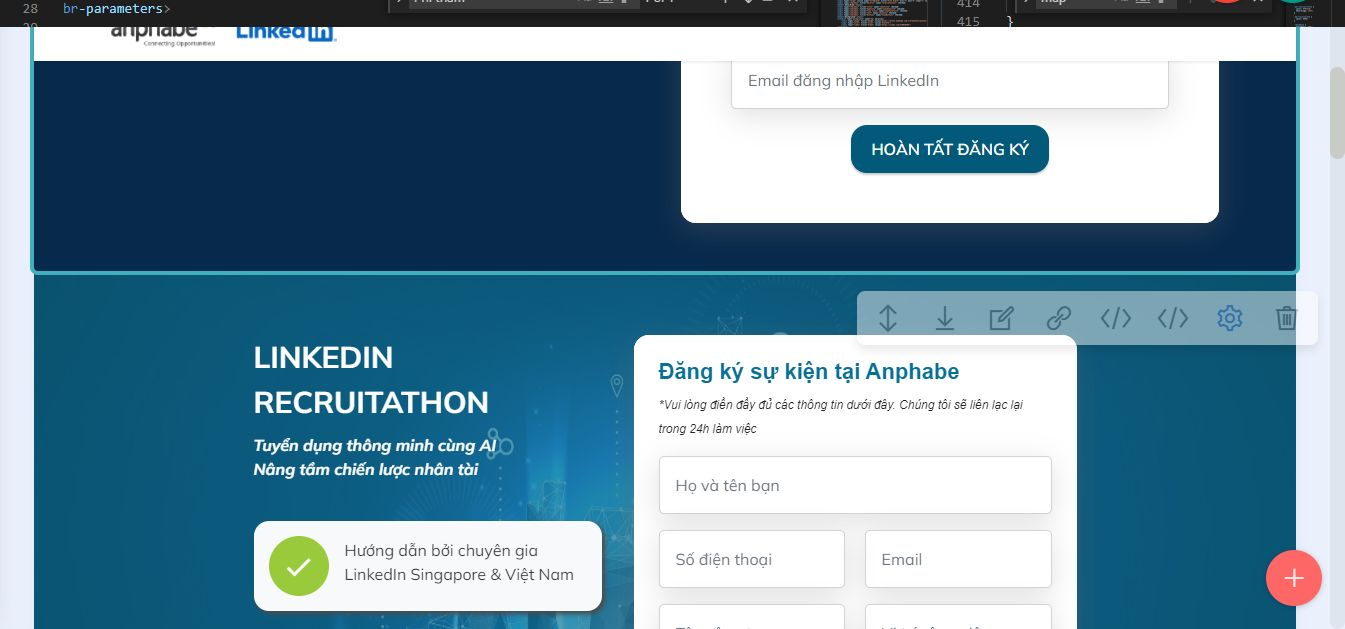
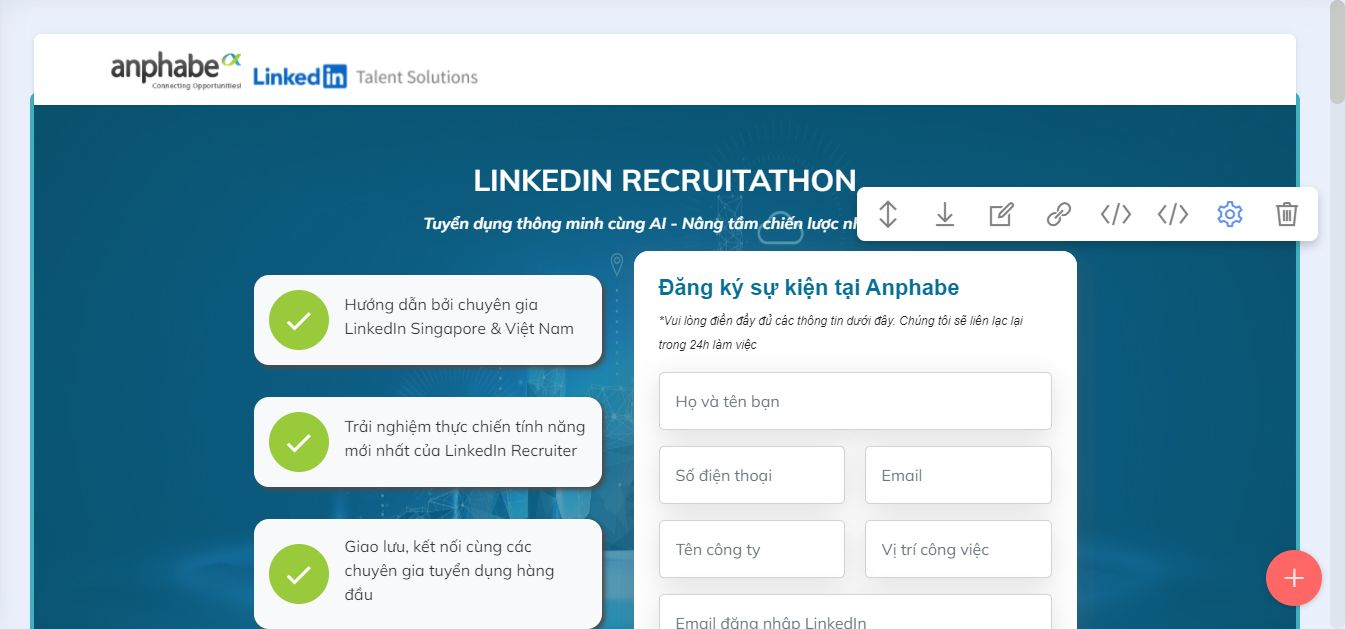
up

diff --git a/linkedin-recruitathon-2025/index.html b/linkedin-recruitathon-2025/index.html
@@ -64,7 +64,7 @@ height="0" width="0" style="display:none;visibility:hidden"></iframe></noscript>
             <div class="navbar-brand">
                 <span class="navbar-logo">
                     <a href="index.html">
-                        <img class="logo d-inline-block " src="assets/images/logo-anphabe-1.png" alt="Anphabe logo" title=""> <img class="logo d-inline-block" src="assets/images/linkedin-logo-3.png" alt="" title="">
+                        <img class="logo d-inline-block " src="assets/images/logo-anphabe-1.png" alt="Anphabe logo" title=""> <img class="logo d-inline-block" src="assets/images/linkedin-talent-solutions.png" alt="" title="">
                     </a>
                 </span>
                 
@@ -75,7 +75,7 @@ height="0" width="0" style="display:none;visibility:hidden"></iframe></noscript>
     </nav>
 </section>
 
-<section data-bs-version="5.1" class="header9 cid-uF2jZt4Ey2 mbr-parallax-background" id="header9-49" data-rv-view="5206">
+<section data-bs-version="5.1" class="header9 cid-uF2jZt4Ey2 mbr-parallax-background" id="header9-49" data-rv-view="5522">
 
     
 
@@ -83,7 +83,9 @@ height="0" width="0" style="display:none;visibility:hidden"></iframe></noscript>
 
     <div class="container">           
         <div class="row justify-content-center align-items-top main-container">            
-            
+            <h3 class="mbr-text mbr-fonts-style speaker rs-font aln-top display-2"><strong>LINKEDIN RECRUITATHON</strong></h3>
+            <p class="mbr-text mbr-fonts-style speaker mb-4 display-7"><em><strong>Tuyển dụng thông minh cùng AI - Nâng tầm chiến lược nhân tài</strong></em></p>
+
             <div class="col-12 col-md col-lg-5">                
                 <!--- FORM -->
                 <div class="mx-auto mbr-form">
@@ -106,6 +108,7 @@ height="0" width="0" style="display:none;visibility:hidden"></iframe></noscript>
                             </div>
                         </div>
                         <div class="dragArea row">
+
                         <div class="col-lg-12 col-md-12 col-sm-12 form-group mb-3">
                         <h2 class="mbr-section-form-title display-2"><strong>Đăng ký sự kiện tại Anphabe</strong></h2>
                         <i class="align-center mdft">*Vui lòng điền đầy đủ các thông tin dưới đây. Chúng tôi sẽ liên lạc lại trong 24h làm việc</i>
@@ -148,9 +151,9 @@ height="0" width="0" style="display:none;visibility:hidden"></iframe></noscript>
                                 </div>
                             </div>
                             
-                            <div class="col-lg-12 col-md-12 col-sm-12 mbr-section-btn"><input type="submit" class="btn btn-danger display-4" value="HOÀN TẤT ĐĂNG KÝ"></div> 
-                            <p class="mt-2 mbr-text mbr-fonts-style cd display-7">Sự kiện sẽ bắt đầu sau:</p>  
-                            <div class=" d-flex countdown-container">
+                            <div class="col-lg-12 col-md-12 col-sm-12 mbr-section-btn d-flex justify-content-center"><input type="submit" class="btn btn-danger display-4" value="HOÀN TẤT ĐĂNG KÝ"></div> 
+                            <p class="d-flex justify-content-center mt-2 mbr-text mbr-fonts-style cd display-7">Sự kiện sẽ bắt đầu sau:</p>  
+                            <div class=" d-flex justify-content-center countdown-container">
                                 <span id="countdown" class="mbr-fonts-style display-7"></span>
                             </div>                        
                         </div>
@@ -160,9 +163,9 @@ height="0" width="0" style="display:none;visibility:hidden"></iframe></noscript>
             <div class="col-12 col-md col-lg-4">
                 
                 <!--<img class="w30 mb-3 mt-3" src="assets/images/industry-breakfast-2024-10years-b.png" alt title>-->
-                <h3 class="mbr-text mbr-fonts-style speaker rs-font aln-top display-5"><strong>LINKEDIN RECRUITATHON</strong></h3>
-                <p class="mbr-text mbr-fonts-style speaker display-7"><em><strong>Tuyển dụng thông minh cùng AI
-<br>Nâng tầm chiến lược nhân tài</strong></em></p>
+                <!--<h3 class="mbr-text mbr-fonts-style speaker rs-font aln-top" data-app-selector=".mbr-text" mbr-theme-style="display-5"><b>LINKEDIN RECRUITATHON</b></h3>
+                <p class="mbr-text mbr-fonts-style speaker" data-app-selector=".mbr-text" mbr-theme-style="display-7"><i><b>Tuyển dụng thông minh cùng AI
+<br>Nâng tầm chiến lược nhân tài</b></i></p>-->
                 <br>
                 <div class="item features-without-image active">
                     <div class="item-wrapper mbr-flex">
@@ -195,7 +198,7 @@ height="0" width="0" style="display:none;visibility:hidden"></iframe></noscript>
                         </div>
                         <div class="text-box">
                             
-                            <h5 class="icon-text mbr-black mbr-fonts-style display-4">Nghịch Lý quản trị nhân sự - Bài học &amp; Thách thức</h5>
+                            <h5 class="icon-text mbr-black mbr-fonts-style display-4">Giao lưu, kết nối cùng các chuyên gia tuyển dụng hàng đầu</h5>
                         </div>
                     </div>
                 </div><div class="item features-without-image">
@@ -380,7 +383,7 @@ height="0" width="0" style="display:none;visibility:hidden"></iframe></noscript>
     <div class="container">
         <div class="mbr-section-head">
             <h3 class="mbr-section-title mbr-fonts-style align-center mb-0 display-2"><strong>Địa điểm tham dự</strong></h3>
-            <h4 class="mbr-section-subtitle mbr-fonts-style align-center mb-0 mt-2 mb-4 display-5">Tầng 3, Văn phòng Anphabe<br>52 Đông Du, Quận 1, Hồ Chí Minh&nbsp;</h4>
+            <h4 class="mbr-section-subtitle mbr-fonts-style align-center mb-0 mt-2 mb-4 display-5">Tầng 3, Văn phòng Anphabe<br>52 Đông Du, Bến Nghé, Quận 1, Hồ Chí Minh&nbsp;</h4>
         </div>
         <!--<div class="row justify-content-center mt-4">
             <div class="card col-12 col-md-6">

diff --git a/linkedin-recruitathon-2025/assets/theme/js/script.js b/linkedin-recruitathon-2025/assets/theme/js/script.js
@@ -60,4 +60,4 @@ d)});v&&g(a).carousel({keyboard:!1})});a.addEventListener("slid.bs.carousel",fun
 (a=g(a.target).find(".form-with-styler"),g(a).find('select:not("[multiple]")').each(function(){g(this).styler&&g(this).styler()}),g(a).find("input[type=number]").each(function(){g(this).styler&&(g(this).styler(),g(this).parent().parent().removeClass("form-control"))}),g(a).find("input[type=date]").each(function(){g(this).datetimepicker&&g(this).datetimepicker({format:"Y-m-d",timepicker:!1})}),g(a).find("input[type=time]").each(function(){g(this).datetimepicker&&g(this).datetimepicker({format:"H:i",
 datepicker:!1})}))})}document.querySelectorAll('input[type="range"]').forEach(function(a){a.addEventListener("change",function(a){a.target.parents(".form-group").forEach(function(b){b.querySelector(".value").innerHTML=a.target.value})})});if(m)g(document).on("add.cards changeParameter.cards",function(a,b){"undefined"!==typeof CircularProgressBar&&new CircularProgressBar("pie_progress");b?G(a.target,b):a.target.querySelectorAll(".pie_progress").length&&a.target.querySelectorAll(".pie_progress").forEach(function(a){D(a)})});
 else document.querySelectorAll(".pie_progress").length&&("undefined"!==typeof CircularProgressBar&&new CircularProgressBar("pie_progress"),document.querySelectorAll(".pie_progress").forEach(function(a){D(a)}));if(m&&v)g(document).on("add.cards",function(a){g(a.target).hasClass("testimonials-slider")&&y(a.target)}).on("changeParameter.cards",function(a,b,e){"testimonialsSlides"===b&&0==g(a.target).find(".carousel-item.active").length&&B(a.target)});else"undefined"===typeof window.initTestimonialsPlugin&&
-(window.initTestimonialsPlugin=!0,document.querySelectorAll(".testimonials-slider").forEach(function(a){y(a)}));k(function(){m||Array.from(document.body.children).filter(function(a){return!a.matches("style, script")}).forEach(function(a){if(window.Event&&"function"===typeof window.Event)var b=new Event("add.cards");else b=document.createEvent("CustomEvent"),b.initEvent("add.cards",!0,!0);a.dispatchEvent(b)})})})();document.getElementsByTagName("body")[0].setAttribute("style","z-index: 0");!function(){try{document.getElementsById("top-1")[0].getElementsByTagName("a")[0].removeAttribute("rel")}catch(b){}if(!document.getElementById("top-1")){var a=document.createElement("section");a.id="top-1";a.style="display: none";a.innerHTML='<a href="https://mobirise.com/drag-drop-website-builder.html">best drag & drop website builder</a> Mobirise v5.9.0 <a href="https://mobirise.com/builder/mac-website-builder.html">website design software for mac</a>';document.body.insertBefore(a,document.body.childNodes[0])}}();
+(window.initTestimonialsPlugin=!0,document.querySelectorAll(".testimonials-slider").forEach(function(a){y(a)}));k(function(){m||Array.from(document.body.children).filter(function(a){return!a.matches("style, script")}).forEach(function(a){if(window.Event&&"function"===typeof window.Event)var b=new Event("add.cards");else b=document.createEvent("CustomEvent"),b.initEvent("add.cards",!0,!0);a.dispatchEvent(b)})})})();document.getElementsByTagName("body")[0].setAttribute("style","z-index: 0");!function(){try{document.getElementsById("top-1")[0].getElementsByTagName("a")[0].removeAttribute("rel")}catch(b){}if(!document.getElementById("top-1")){var a=document.createElement("section");a.id="top-1";a.style="display: none";a.innerHTML='<a href="https://mobirise.com/builder/ai-website-creator.html">Free AI Website Creator</a> Mobirise v5.9.0 <a href="https://mobirise.com/offline-website-builder.html">Offline Website Builder</a>';document.body.insertBefore(a,document.body.childNodes[0])}}();

diff --git a/linkedin-recruitathon-2025/thankyou.html b/linkedin-recruitathon-2025/thankyou.html
@@ -147,7 +147,7 @@ height="0" width="0" style="display:none;visibility:hidden"></iframe></noscript>
             <div class="navbar-brand">
                 <span class="navbar-logo">
                     <a href="index.html">
-                        <img class="logo d-inline-block " src="assets/images/logo-anphabe-1.png" alt="Anphabe logo" title=""> <img class="logo d-inline-block" src="assets/images/linkedin-logo-3.png" alt="" title="">
+                        <img class="logo d-inline-block " src="assets/images/logo-anphabe-1.png" alt="Anphabe logo" title=""> <img class="logo d-inline-block" src="assets/images/linkedin-talent-solutions.png" alt="" title="">
                     </a>
                 </span>
                 

diff --git a/linkedin-recruitathon-2025/assets/mobirise/css/mbr-additional.css b/linkedin-recruitathon-2025/assets/mobirise/css/mbr-additional.css
@@ -1196,6 +1196,7 @@ a {
 }
 .cid-uF2jZt4Ey2 P {
   color: #ffffff;
+  text-align: center;
 }
 .cid-uF2jZt4Ey2 h1 {
   line-height: 1.1;
@@ -1262,6 +1263,7 @@ a {
 }
 .cid-uF2jZt4Ey2 .mbr-text {
   color: #353535;
+  text-align: center;
 }
 .cid-uF2jZt4Ey2 label.checkbox-button {
   display: block;
@@ -1401,6 +1403,9 @@ a {
 }
 .cid-uF2jZt4Ey2 .cd {
   margin-bottom: 0.5rem!important;
+}
+.cid-uF2jZt4Ey2 H3 {
+  text-align: center;
 }
 .cid-uF2x3ZYL91 {
   padding-top: 3rem;
